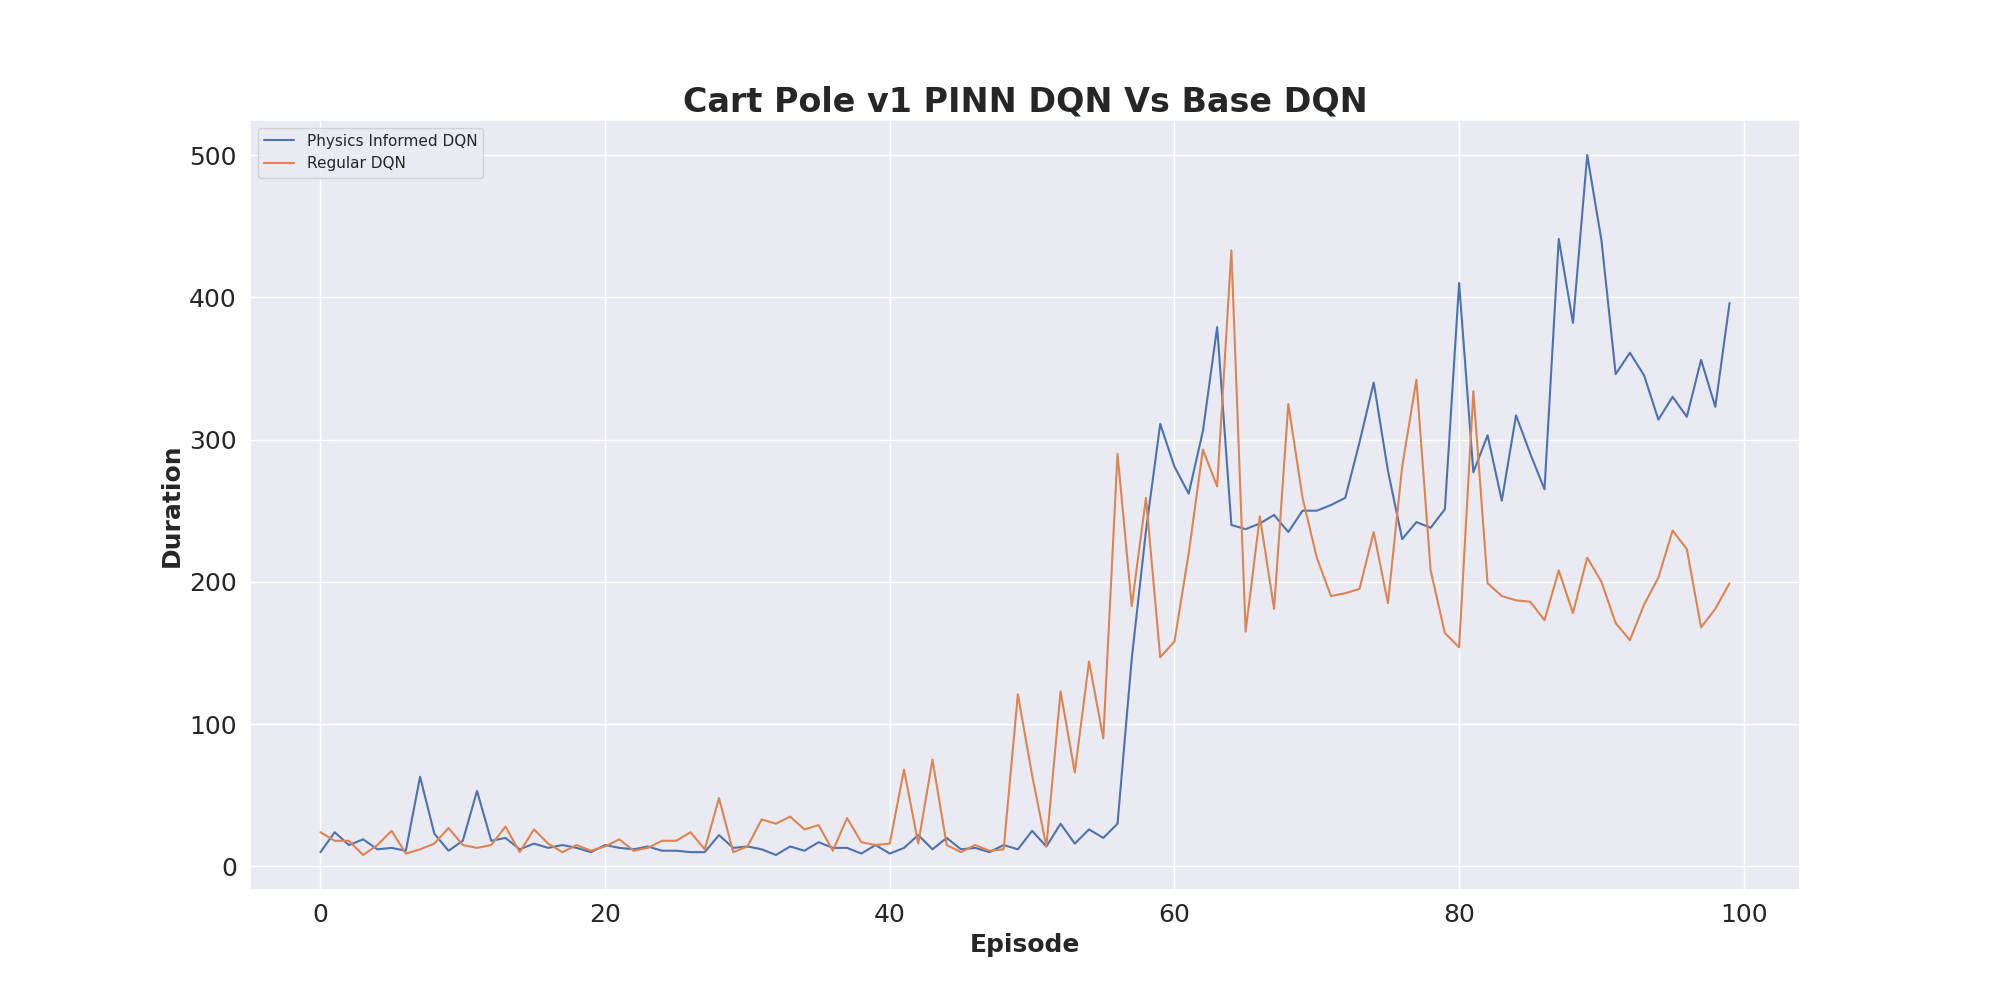
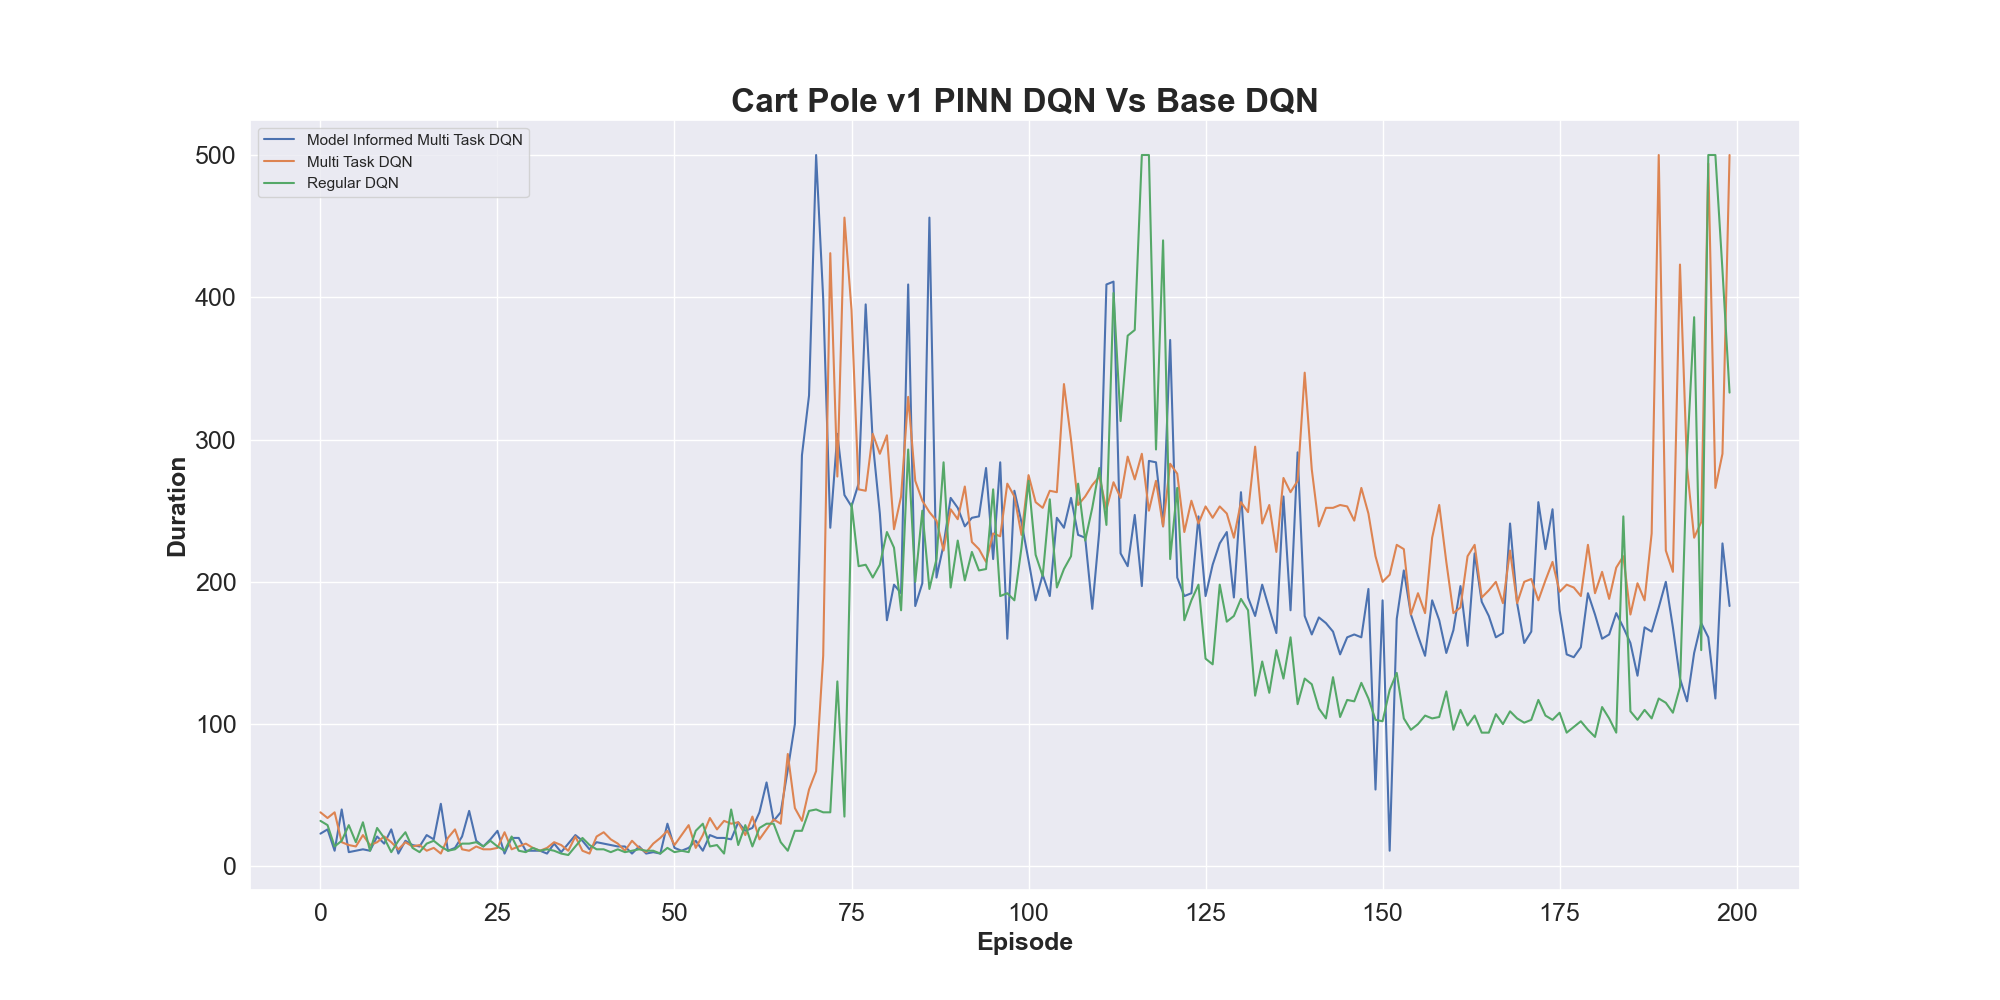
new strategies

diff --git a/pytorch_dqn.py b/pytorch_dqn.py
@@ -11,6 +11,7 @@ import torch.nn as nn
 import torch.optim as optim
 import torch.nn.functional as F
 import seaborn as sns
+from torch.optim.lr_scheduler import ReduceLROnPlateau
 
 class DQN(nn.Module):
 
@@ -28,21 +29,19 @@ class DQN(nn.Module):
     # Called with either one element to determine next action, or a batch
     # during optimization. Returns tensor([[left0exp,right0exp]...]).
     def forward(self, x):
-        
         # x=torch.tensor(x,dtype=torch.float).reshape(len(x),25)
         x = F.relu(self.layer1(x))
         x = F.relu(self.layer2(x))
         return self.layer3(x)
+    def forward_q(self, x):
+        x = F.relu(torch.matmul(self.layer1.weight.data[:,0:4],torch.transpose(x,0,1)).add(self.layer1.bias.data.reshape(len(self.layer1.bias.data),1)))
+        x = F.relu(self.layer2(torch.transpose(x,0,1)))
+        return self.layer3(x)[:,0:2]
     def forward_next_state(self, x):
         
-        # x=torch.tensor(x,dtype=torch.float).reshape(len(x),25)
         x = F.relu(self.layer1(x))
         x = F.relu(self.layer2(x))
-        x = F.relu(self.layer3(x))
-        argument = torch.argmax(x,dim=1).reshape(len(x),1)
-        x = torch.gather(x,1,argument)
-        x = F.relu(self.layer4(x))
-        return self.layer5(x)
+        return self.layer3(x)[:,2:]
     
     def train(self,num_epochs,x,y):
         
@@ -110,7 +109,7 @@ class ReplayMemory(object):
     def __len__(self):
         return len(self.memory)
 
-def select_action(state):
+def select_action(state,thoug):
     global steps_done
     sample = random.random()
     eps_threshold = EPS_END + (EPS_START - EPS_END) * \
@@ -121,7 +120,7 @@ def select_action(state):
             # t.max(1) will return the largest column value of each row.
             # second column on max result is index of where max element was
             # found, so we pick action with the larger expected reward.
-            return policy_net(state).max(1)[1].view(1, 1)
+            return policy_net(state).max(1)[1].view(1, 1) if not thoug else policy_net.forward_q(state).max(1)[1].view(1, 1)
     else:
         return torch.tensor([[env.action_space.sample()]], device=device, dtype=torch.long)
 
@@ -151,7 +150,7 @@ def plot_durations(show_result=False):
         else:
             display.display(plt.gcf())
 
-def optimize_model(count,though):
+def optimize_model(count,though,additional):
     if len(memory) < BATCH_SIZE:
         return
     
@@ -179,8 +178,13 @@ def optimize_model(count,though):
     # Compute Q(s_t, a) - the model computes Q(s_t), then we select the
     # columns of actions taken. These are the actions which would've been taken
     # for each batch state according to policy_net
-    state_action_values = policy_net(state_batch).gather(1, action_batch)
-    next_states_prediction = policy_net.forward_next_state(state_batch)
+    if though:
+        state_action_values = policy_net.forward_q(state_batch).gather(1, action_batch)
+        state_action = torch.cat((state_batch,action_batch),1)
+        next_states_prediction = policy_net.forward_next_state(state_action)
+    else:
+        state_action_values = policy_net(state_batch).gather(1, action_batch)
+    
     # Compute V(s_{t+1}) for all next states.
     # Expected values of actions for non_final_next_states are computed based
     # on the "older" target_net; selecting their best reward with max(1)[0].
@@ -189,20 +193,39 @@ def optimize_model(count,though):
     next_state_values = torch.zeros(BATCH_SIZE, device=device)
     next_state_true = torch.zeros((BATCH_SIZE,4), device=device)
     with torch.no_grad():
-        next_state_values[non_final_mask] = target_net(non_final_next_states).max(1)[0]
-        next_state_true[non_final_mask,:] = non_final_next_states
+        if though:
+            next_state_values[non_final_mask] = target_net.forward_q(non_final_next_states).max(1)[0]
+            next_state_true[non_final_mask,:] = non_final_next_states
+        else:
+
+            next_state_values[non_final_mask] = target_net(non_final_next_states).max(1)[0]
+            next_state_true[non_final_mask,:] = non_final_next_states
     # Compute the expected Q values
+    print(reward_batch)
     expected_state_action_values = (next_state_values * GAMMA) + reward_batch
     
     # Compute Huber loss
     criterion = nn.SmoothL1Loss()
+   
     loss = criterion(state_action_values, expected_state_action_values.unsqueeze(1))
     if though==True and t<200:
-        if t%50==0:
+        if t%50==0 and t>1:
             print(criterion(next_states_prediction,next_state_true))
-        loss+= criterion(next_states_prediction,next_state_true)*0.01
-        loss+= criterion(next_states_prediction[:,0],torch.zeros(next_states_prediction[:,0].shape))*0.01
-        loss+= criterion(next_states_prediction[:,2],torch.zeros(next_states_prediction[:,0].shape))*0.01
+        loss+= criterion(next_states_prediction,next_state_true)
+        if additional:
+        # if criterion(next_states_prediction,next_state_true).item()<0.001 and additional:
+            
+            next_action = policy_net.forward_q(next_states_prediction).gather(1, action_batch)
+            
+            next_state_action = torch.cat((next_states_prediction,next_action),1)
+            next_next_state = policy_net.forward_next_state(next_state_action)
+            # next_state_values[non_final_mask] = target_net.forward_q(non_final_next_states).max(1)[0]
+            # next_state_true[non_final_mask,:] = non_final_next_states
+
+            loss+= criterion(next_next_state[:,0],torch.zeros(next_states_prediction[:,0].shape))
+            loss+= criterion(next_next_state[:,2],torch.zeros(next_states_prediction[:,0].shape))
+            if t%50==0 and t>1:
+                print("stepped on the second prediction")
     # Optimize the model
     optimizer.zero_grad()
     loss.backward(retain_graph=True)
@@ -288,69 +311,136 @@ n_actions = env.action_space.n
 if torch.cuda.is_available():
     num_episodes = 600
 else:
-    num_episodes = 100
+    num_episodes = 200
 plt.figure(figsize=(20,10))
 for thoug in [True,False]:
-    rewards={}
-    state, info = env.reset()
-    n_observations = len(state)
-    policy_net = DQN(n_nodes,n_observations, n_actions).to(device)
-    target_net = DQN(n_nodes,n_observations, n_actions).to(device)
-    # transition_net = DQN((n_observations+1)*SEQUENCE_LENGTH,n_observations).to(device)
-    target_net.load_state_dict(policy_net.state_dict())
-
-    optimizer = optim.AdamW(policy_net.parameters(), lr=LR, amsgrad=True)
-    memory = ReplayMemory(10000)
-
-    steps_done = 0
-
-    episode_durations = []
-
-    for i_episode in range(num_episodes):
-    
-        rewards[i_episode]=[]
-        # Initialize the environment and get it's state
-        state, info = env.reset()
-        state = torch.tensor(state, dtype=torch.float32, device=device).unsqueeze(0)
-        for t in count():
-            action = select_action(state)
-            observation, reward, terminated, truncated, _ = env.step(action.item())
-            rewards[i_episode].append(reward)
-            reward = torch.tensor([reward], device=device)
-            done = terminated or truncated
-            
-            if terminated:
-                next_state = None
+    if thoug:
+        for additional in [True,False]:
+            rewards={}
+            state, info = env.reset()
+            n_observations = len(state)
+            if thoug:
+                policy_net = DQN(n_nodes,n_observations+1, n_actions+n_observations).to(device)
+                target_net = DQN(n_nodes,n_observations+1, n_actions+n_observations).to(device)
             else:
-                next_state = torch.tensor(observation, dtype=torch.float32, device=device).unsqueeze(0)
+                policy_net = DQN(n_nodes,n_observations, n_actions).to(device)
+                target_net = DQN(n_nodes,n_observations, n_actions).to(device)
+                # transition_net = DQN((n_observations+1)*SEQUENCE_LENGTH,n_observations).to(device)
+                target_net.load_state_dict(policy_net.state_dict())
 
-            # Store the transition in memory
-            memory.push(state, action, next_state, reward,i_episode)
+            optimizer = optim.AdamW(policy_net.parameters(), lr=LR, amsgrad=True)
+            scheduler = ReduceLROnPlateau(optimizer, 'min')
+            memory = ReplayMemory(10000)
 
-            # Move to the next state
-            state = next_state
+            steps_done = 0
+
+            episode_durations = []
+
+            for i_episode in range(num_episodes):
             
-            # Perform one step of the optimization (on the policy network)
-            optimize_model(t,thoug)
+                rewards[i_episode]=[]
+                # Initialize the environment and get it's state
+                state, info = env.reset()
+                state = torch.tensor(state, dtype=torch.float32, device=device).unsqueeze(0)
+                for t in count():
+                    action = select_action(state,thoug)
+                    observation, reward, terminated, truncated, _ = env.step(action.item())
+                    rewards[i_episode].append(reward)
+                    reward = torch.tensor([reward], device=device)
+                    done = terminated or truncated
+                    
+                    if terminated:
+                        next_state = None
+                    else:
+                        next_state = torch.tensor(observation, dtype=torch.float32, device=device).unsqueeze(0)
 
-            # Soft update of the target network's weights
-            # θ′ ← τ θ + (1 −τ )θ′
-            target_net_state_dict = target_net.state_dict()
-            policy_net_state_dict = policy_net.state_dict()
-            for key in policy_net_state_dict:
-                target_net_state_dict[key] = policy_net_state_dict[key]*TAU + target_net_state_dict[key]*(1-TAU)
-            target_net.load_state_dict(target_net_state_dict)
+                    # Store the transition in memory
+                    memory.push(state, action, next_state, reward,i_episode)
 
-            if done:
-                episode_durations.append(t + 1)
-                # plot_durations()
-                break
-        print(i_episode)
-    rewards_average = [sum(rewards[i]) for i in list(rewards)]
+                    # Move to the next state
+                    state = next_state
+                    
+                    # Perform one step of the optimization (on the policy network)
+                    optimize_model(t,thoug,additional)
 
-    plt.plot(list(rewards),rewards_average)
+                    # Soft update of the target network's weights
+                    # θ′ ← τ θ + (1 −τ )θ′
+                    target_net_state_dict = target_net.state_dict()
+                    policy_net_state_dict = policy_net.state_dict()
+                    for key in policy_net_state_dict:
+                        target_net_state_dict[key] = policy_net_state_dict[key]*TAU + target_net_state_dict[key]*(1-TAU)
+                    target_net.load_state_dict(target_net_state_dict)
+
+                    if done:
+                        episode_durations.append(t + 1)
+                        # plot_durations()
+                        break
+                print(i_episode,t)
+            rewards_average = [sum(rewards[i]) for i in list(rewards)]
+
+            plt.plot(list(rewards),rewards_average)
+    else:
+
+        rewards={}
+        state, info = env.reset()
+        n_observations = len(state)
+        policy_net = DQN(n_nodes,n_observations, n_actions).to(device)
+        target_net = DQN(n_nodes,n_observations, n_actions).to(device)
+            # transition_net = DQN((n_observations+1)*SEQUENCE_LENGTH,n_observations).to(device)
+        target_net.load_state_dict(policy_net.state_dict())
+        scheduler = ReduceLROnPlateau(optimizer, 'min')
+        optimizer = optim.AdamW(policy_net.parameters(), lr=LR, amsgrad=True)
+        memory = ReplayMemory(10000)
+
+        steps_done = 0
+
+        episode_durations = []
+
+        for i_episode in range(num_episodes):
+        
+            rewards[i_episode]=[]
+            # Initialize the environment and get it's state
+            state, info = env.reset()
+            state = torch.tensor(state, dtype=torch.float32, device=device).unsqueeze(0)
+            for t in count():
+                action = select_action(state,thoug)
+                observation, reward, terminated, truncated, _ = env.step(action.item())
+                rewards[i_episode].append(reward)
+                reward = torch.tensor([reward], device=device)
+                done = terminated or truncated
+                
+                if terminated:
+                    next_state = None
+                else:
+                    next_state = torch.tensor(observation, dtype=torch.float32, device=device).unsqueeze(0)
+
+                # Store the transition in memory
+                memory.push(state, action, next_state, reward,i_episode)
+
+                # Move to the next state
+                state = next_state
+                
+                # Perform one step of the optimization (on the policy network)
+                optimize_model(t,thoug,additional)
+
+                # Soft update of the target network's weights
+                # θ′ ← τ θ + (1 −τ )θ′
+                target_net_state_dict = target_net.state_dict()
+                policy_net_state_dict = policy_net.state_dict()
+                for key in policy_net_state_dict:
+                    target_net_state_dict[key] = policy_net_state_dict[key]*TAU + target_net_state_dict[key]*(1-TAU)
+                target_net.load_state_dict(target_net_state_dict)
+
+                if done:
+                    episode_durations.append(t + 1)
+                    # plot_durations()
+                    break
+            print(i_episode,)
+        rewards_average = [sum(rewards[i]) for i in list(rewards)]
+
+        plt.plot(list(rewards),rewards_average)
 plt.title("Cart Pole v1 PINN DQN Vs Base DQN",fontsize="24",fontweight="bold")
-plt.legend(["Physics Informed DQN","Regular DQN"])
+plt.legend(["Model Informed Multi Task DQN","Multi Task DQN","Regular DQN"])
 plt.xlabel("Episode",fontsize="18",fontweight="bold")
 plt.ylabel("Duration",fontsize="18",fontweight="bold")
 plt.xticks(fontsize=18)
